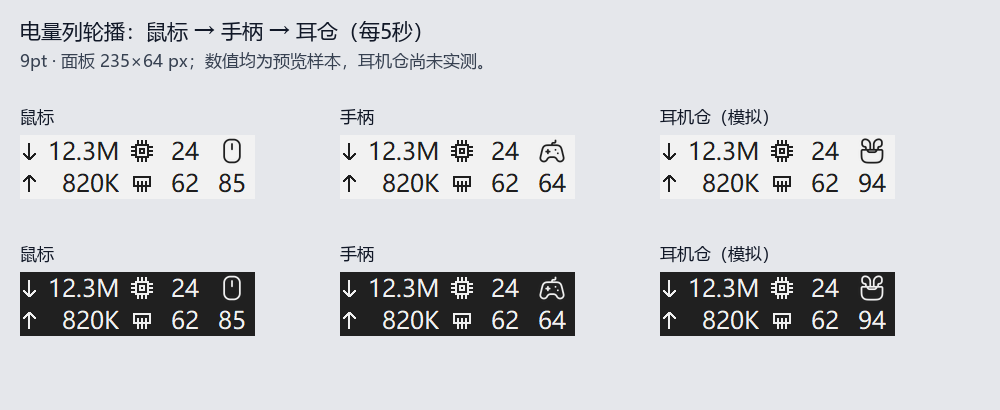
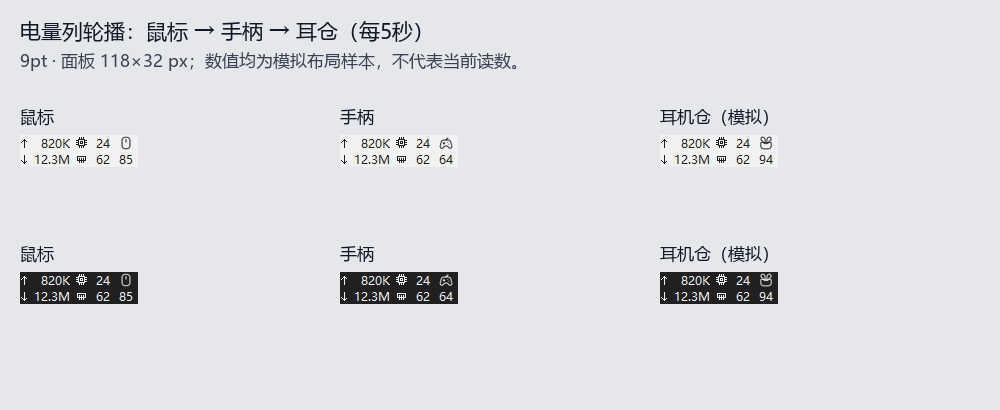
fix: show upload above download in compact panel

diff --git a/traffic-plugin/compact_test.cpp b/traffic-plugin/compact_test.cpp
@@ -142,6 +142,7 @@ int wmain(int argc,wchar_t** argv){
         auto old_bitmap=SelectObject(dc,bitmap);
         auto brush=CreateSolidBrush(RGB(20,30,40));RECT all{0,0,width+20,MulDiv(32,dpi,96)+20};FillRect(dc,&all,brush);DeleteObject(brush);
         SetTextColor(dc,RGB(4,5,6));SetBkMode(dc,OPAQUE);
+        state.monitor(snap.monitor); // Distinct upload/download values expose row mix-ups.
         state.battery({100,GetTickCount64(),0,1,false,false});panel.color(RGB(255,255,255));
         panel.DrawItem(dc,10,10,width,MulDiv(32,dpi,96),true);GdiFlush();
         CHECK(GetTextColor(dc)==RGB(4,5,6));CHECK(GetBkMode(dc)==OPAQUE);CHECK(GetCurrentObject(dc,OBJ_FONT)==font);
@@ -163,6 +164,23 @@ int wmain(int argc,wchar_t** argv){
         }
         int cpu_x=cpu_box.left+(cpu_box.right-cpu_box.left)/2, cpu_y=cpu_box.top+(cpu_box.bottom-cpu_box.top)/2;
         CHECK((p[cpu_y*all.right+cpu_x]&0xffffff)==0x141e28);
+        // Pixel regression: top row is upload (arrow AND value), bottom is download.
+        // Repaint only the network column with an independent explicit reference;
+        // every pixel, including all other columns and padding, must stay identical.
+        std::vector<DWORD> rendered(p,p+all.right*all.bottom);
+        int half=MulDiv(32,dpi,96)/2;
+        RECT network{10+l.pad,10,10+l.network_end(),10+2*half};
+        auto network_background=CreateSolidBrush(RGB(20,30,40));
+        FillRect(dc,&network,network_background);DeleteObject(network_background);
+        int reference_state=SaveDC(dc);SetBkMode(dc,TRANSPARENT);
+        for(int row=0;row<2;++row){
+            RECT arrow{10+l.pad,10+row*half,10+l.pad+l.arrow,10+(row+1)*half};
+            RECT value{10+l.pad+l.arrow+l.icon_gap,arrow.top,10+l.network_end(),arrow.bottom};
+            draw_icon(dc,row==0?Icon::up:Icon::down,arrow,RGB(255,255,255),l);
+            draw_text(dc,speed(row==0?snap.monitor.up_speed:snap.monitor.down_speed),value,RGB(255,255,255));
+        }
+        RestoreDC(dc,reference_state);GdiFlush();
+        CHECK(std::equal(rendered.begin(),rendered.end(),p));
         // Exercise all selected production glyphs, their alpha/color blending,
         // both row bounds, and the same GDI-state contract at every tested DPI.
         snap.battery={85,30000,0,1,false,false};

diff --git a/traffic-plugin/compact_draw.h b/traffic-plugin/compact_draw.h
@@ -118,11 +118,11 @@ inline void draw(HDC dc, int x, int y, int w, int h, bool dark, COLORREF normal,
     int left = x + std::max(0,w-l.width), half = h/2;
     RECT top{left,y,left+l.width,y+half}, bottom{left,y+half,left+l.width,y+h};
     auto cell = [&](const RECT& row, int begin, int end) { return RECT{left+begin,row.top,left+end,row.bottom}; };
-    draw_icon(dc,Icon::down,cell(top,l.pad,l.pad+l.arrow),normal,l);
-    draw_icon(dc,Icon::up,cell(bottom,l.pad,l.pad+l.arrow),normal,l);
+    draw_icon(dc,Icon::up,cell(top,l.pad,l.pad+l.arrow),normal,l);
+    draw_icon(dc,Icon::down,cell(bottom,l.pad,l.pad+l.arrow),normal,l);
     int speed_start = l.pad+l.arrow+l.icon_gap;
-    draw_text(dc,s.monitor_received?speed(s.monitor.down_speed):L"?",cell(top,speed_start,l.network_end()),normal);
-    draw_text(dc,s.monitor_received?speed(s.monitor.up_speed):L"?",cell(bottom,speed_start,l.network_end()),normal);
+    draw_text(dc,s.monitor_received?speed(s.monitor.up_speed):L"?",cell(top,speed_start,l.network_end()),normal);
+    draw_text(dc,s.monitor_received?speed(s.monitor.down_speed):L"?",cell(bottom,speed_start,l.network_end()),normal);
     draw_icon(dc,Icon::cpu,cell(top,l.usage_start(),l.usage_start()+l.icon),normal,l);
     draw_icon(dc,Icon::memory,cell(bottom,l.usage_start(),l.usage_start()+l.icon),normal,l);
     int usage_value = l.usage_start()+l.icon+l.icon_gap;

diff --git a/README.md b/README.md
@@ -13,7 +13,7 @@
 
 ## 功能
 
-- 双行三列：下载 / 上传，CPU / 内存占用，设备图标 / 电量。
+- 双行三列：上传 / 下载（上传在上、下载在下），CPU / 内存占用，设备图标 / 电量。
 - 保持宿主9pt字号；网速/占用数字右对齐、电量数字居中，列宽固定；设备图标透明掩码内嵌DLL。
 - 网速1024进位，单位`B/K/M/G`，最多一位小数；CPU、内存、电量完整保留0–100。
 - 四边各三根引脚的CPU图标，按对称像素网格绘制，四档DPI验证左右/上下对称。

diff --git a/docs/compact-panel.md b/docs/compact-panel.md
@@ -3,8 +3,8 @@
 ## 布局
 
 ```text
-↓12.3M  [CPU芯片]24  [鼠标轮廓]
-↑ 820K  [内存条]62       85
+↑ 820K  [CPU芯片]24  [鼠标轮廓]
+↓12.3M  [内存条]62       85
 ```
 
 图标为单色GDI绘制，没有背景卡片、边框、曲线或装饰分隔线。数字右对齐，各列固定宽度。
